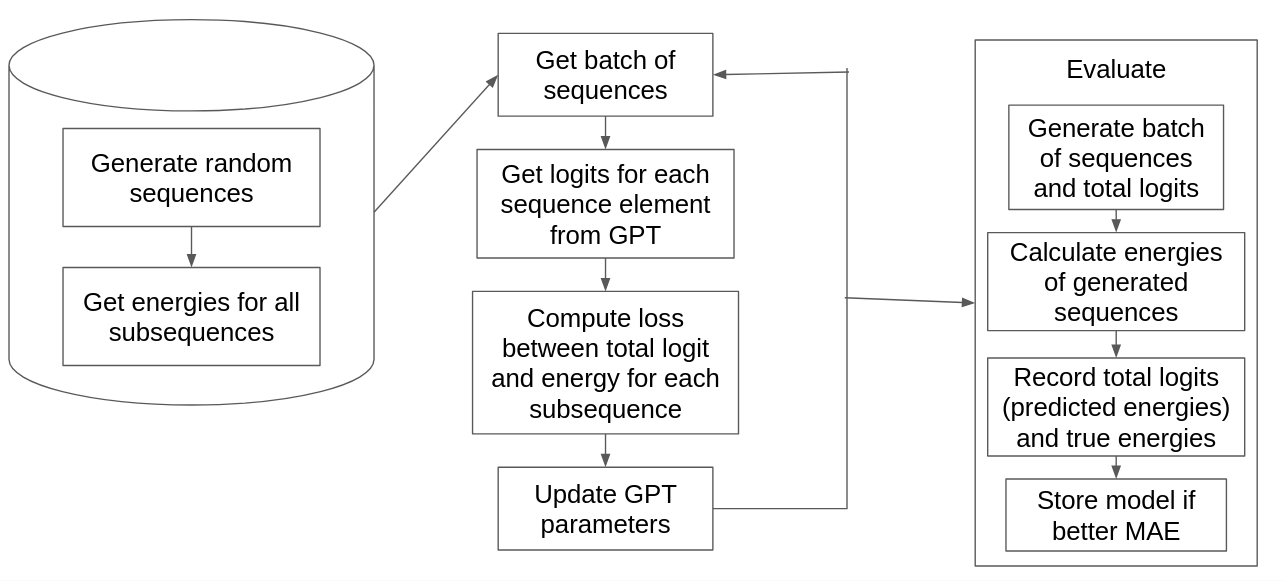
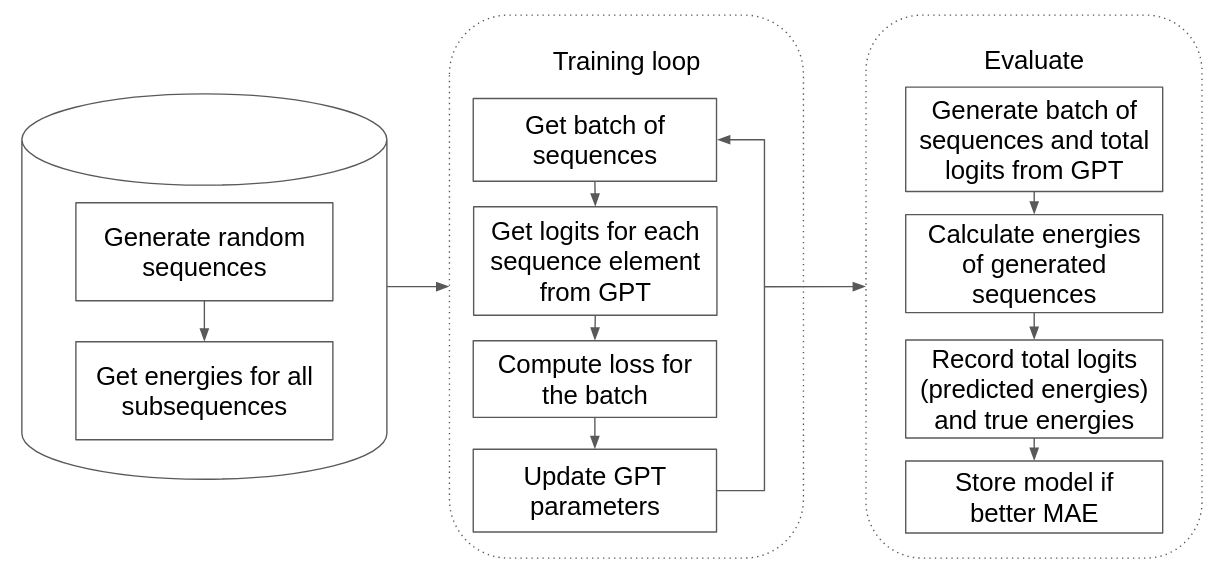
change figures and expound on generating operators

diff --git a/demonstrations/gqe_training.py b/demonstrations/gqe_training.py
@@ -50,18 +50,11 @@ state. And lastly, we discuss the results, potential ways optimizing the code, a
  
 
 ##############################################################################
-#.. figure:: ../_static/demonstration_assets/gqe_training/paper_vqe_diagram.png
+#.. figure:: ../_static/demonstration_assets/gqe_training/paper_gqe_vqe.png
 #    :align: center
 #    :width: 90%
 # 
-#    Figure 1: VQE diagram from [#nakaji2024]_
-
-##############################################################################
-#.. figure:: ../_static/demonstration_assets/gqe_training/paper_gqe_diagram.png
-#    :align: center
-#    :width: 90%
-# 
-#    Figure 2: GQE diagram from [#nakaji2024]_ 
+#    Figure 1: Diagrams of GQE and VQE from [#nakaji2024]_
 
 ######################################################################
 # GPT-QE background
@@ -74,9 +67,10 @@ state. And lastly, we discuss the results, potential ways optimizing the code, a
 # harnessed for quantum chemistry by constructing quantum states :math:`\rho` as a sequence of unitary operators 
 # which are, in turn, represented by quantum circuits. That is, we let :math:`\rho = U\rho_0 U^{\dagger}`
 # for some fixed initial state :math:`\rho_0` and the aforementioned sequence is :math:`U = U_{j_N}U_{j_{N-1}}\cdots U_{j_1}`.
-# The GPT model generates the sequence of integers :math:`j_1, j_2, ..., j_N` indexing a pool 
-# of operators :math:`U_j` loaded from `PennyLane Datasets <https://pennylane.ai/datasets/>`__. We interpret these integers as 
-# tokens and the pool as the vocabulary in the parlance for language models. 
+# The GPT model samples a sequence of integers :math:`j_1, j_2, ..., j_N` indexing a pool 
+# of operators :math:`U_j` generated using molecular data from `PennyLane Molecules <https://pennylane.ai/datasets/qchem>`__ 
+# (a collection of many molecular datasets in `PennyLane Datasets <https://pennylane.ai/datasets/>`__). We interpret these 
+# integers as tokens and the pool as the vocabulary in the parlance for language models. 
 # The goal of training is then to minimize the corresponding energy
 # :math:`E = \mbox{Tr}(\hat{H}\rho)`, where :math:`\hat{H}` is the Hamiltonian of the molecule in 
 # question.
@@ -92,7 +86,7 @@ state. And lastly, we discuss the results, potential ways optimizing the code, a
 # With this constraint satisfied, GPT-QE would then be sampling states of smaller energies with increasing
 # likelihood.
 #  
-# More concretely, we summarize the "pre-"training loop in Figure 3. This is called
+# More concretely, we summarize the "pre-"training loop in Figure 2. This is called
 # pre-training because the learning is done using a fixed dataset first before the "real" training 
 # is done based on the data it generated on its own. In this demo, we will call the pre-training as offline
 # training since the GPT model does not receive feedback from the sequences it samples, and online
@@ -103,7 +97,7 @@ state. And lastly, we discuss the results, potential ways optimizing the code, a
 #    :align: center
 #    :width: 90%
 # 
-#    Figure 3: Overview for offline training of GPT-QE
+#    Figure 2: Overview for offline training of GPT-QE
 
 ######################################################################
 # Dataset construction via PennyLane
@@ -121,10 +115,15 @@ state. And lastly, we discuss the results, potential ways optimizing the code, a
 # ~~~~~~~~~~~~~~~~~~~~~~~~~~~~~~~~~
 # 
 # For simplicity, let us consider the `hydrogen gas molecule <https://pennylane.ai/datasets/qchem/h2-molecule>`__ 
-# and load the correspoding dataset from PennyLane.
+# and load the corresponding dataset from PennyLane.
 # Recall that we would need a vocabulary of operators :math:`U_j`, an initial state :math:`\rho_0`, and 
 # the Hamiltonian :math:`\hat{H}` for hydrogen gas. We also get the ground state energy for later comparison
-# with the results.
+# with the results. 
+# 
+# Specifically, the unitary operators :math:`U_j` are time evolution operators as prescribed
+# in [#nakaji2024]_. The non-identity operators are generated in PennyLane using :class:`~.pennylane.SingleExcitation`
+# and :class:`~.pennylane.DoubleExcitation` which then depend on the number of electrons and orbitals 
+# of the molecule.
 # 
 
 import numpy as np
@@ -238,7 +237,7 @@ train_sub_seq_en = get_subsequence_energies(train_op_seq)
 # GPT-QE offline training
 # --------------------------
 # Having setup our training dataset, we can start implementing our offline training loop as
-# illustrated in Figure 3. We outline our implementation below.
+# illustrated in Figure 2. We outline our implementation below.
 
 ######################################################################
 # GPT model implementation details
@@ -514,10 +513,10 @@ loss_fig
 #    :align: center
 #    :width: 100%
 # 
-#    Figure 4: The subsequence loss for each training iteration
+#    Figure 3: The subsequence loss for each training iteration
 
 ##############################################################################
-# We see in Figure 4 that the loss
+# We see in Figure 3 that the loss
 # continues to decrease until around the 4,000th iteration. There, the model was erroraneous but is quick
 # to recover as training continues. This may signal that the GPT model started focusing on learning something
 # erroraneous too quickly. So, more regularization noise (like ``dropout``) may be needed to help avoid this. 
@@ -526,9 +525,9 @@ loss_fig
 # Evaluation progress
 # ~~~~~~~~~~~~~~~~~~~~~~~~~~~
 # 
-# We now track the performance of the GPT model throughout its training in Figure 5 below. As mentioned
+# We now track the performance of the GPT model throughout its training in Figure 4 below. As mentioned
 # before, after every 500th iteration, we let the model generate a batch of sequences. Alongside, we
-# also return the total logits (predicted energies) used in the sequence generation. In Figure 5,
+# also return the total logits (predicted energies) used in the sequence generation. In Figure 4,
 # the average predicted energies correspond to the red markers and the distribution of predicted
 # energies is represented by the red area. Once we have the generated sequences, we can also let PennyLane calculate the true sequence
 # energies. Similarly then, the blue markers are the average true energies and the blue
@@ -565,22 +564,22 @@ fig
 #    :align: center
 #    :width: 100%
 # 
-#    Figure 5: True and predicted energies for sequences generated by the GPT model for each 500th training iteration
+#    Figure 4: True and predicted energies for sequences generated by the GPT model for each 500th training iteration
 
 ##############################################################################
 # We now see that the energies predicted by the model get more accurate at approximating the true
 # energies during training. The increase in accuracy then allows the model to correctly sample states 
-# with lower energies. This is supported in Figure 5 where the true energies 
+# with lower energies. This is supported in Figure 4 where the true energies 
 # sampled gets closer to the ground state energy (the dashed line).
 # 
 # Note that at around the 4,000th iteration, the predicted energies are very far from the true energies.
-# This makes sense considering our observation in Figure 4. Also note that at the 7,000th
+# This makes sense considering our observation in Figure 3. Also note that at the 7,000th
 # iteration, the averages of the predicted and true energies are the closest and even their respective
 # spreads seem to have good overlap. This is when the best performing model version was saved, as seen in the training logs. 
 # For later iterations however, the predicted energies no longer improved.
 # This may indicate that the GPT model has started overfitting on the training dataset in the later iterations. 
 # That is, the model became great at predicting the correct energies for the training set (as observed by the decreasing
-# loss in Figure 4) but not great at generalizing on those outside the training set (like the sequences that the model
+# loss in Figure 3) but not great at generalizing on those outside the training set (like the sequences that the model
 # generated on its own). One solution to avoid overfitting could then be online training. This is so that 
 # the GPT model is not restricted on a fixed dataset on which to overfit.
 # 
@@ -659,7 +658,7 @@ df_compare_Es
 # Between the two GPT model versions, we see that the latest version is worse than the best version. The minimum energy
 # error for the latest version has the same order of magnitude as the corresponding one for the random training set.
 # Contrast this with the minimum energy error for the best version, which is 3 orders of magnitude smaller.
-# This behavior is supported by our observation in Figure 5 where the performance of the model after
+# This behavior is supported by our observation in Figure 4 where the performance of the model after
 # the 7,000th iteration worsened. That is, the predicted energies started to deviate further from the true energies
 # which in turn caused the states being sampled from these predicted energies to be different from the intended 
 # lower energy states.
